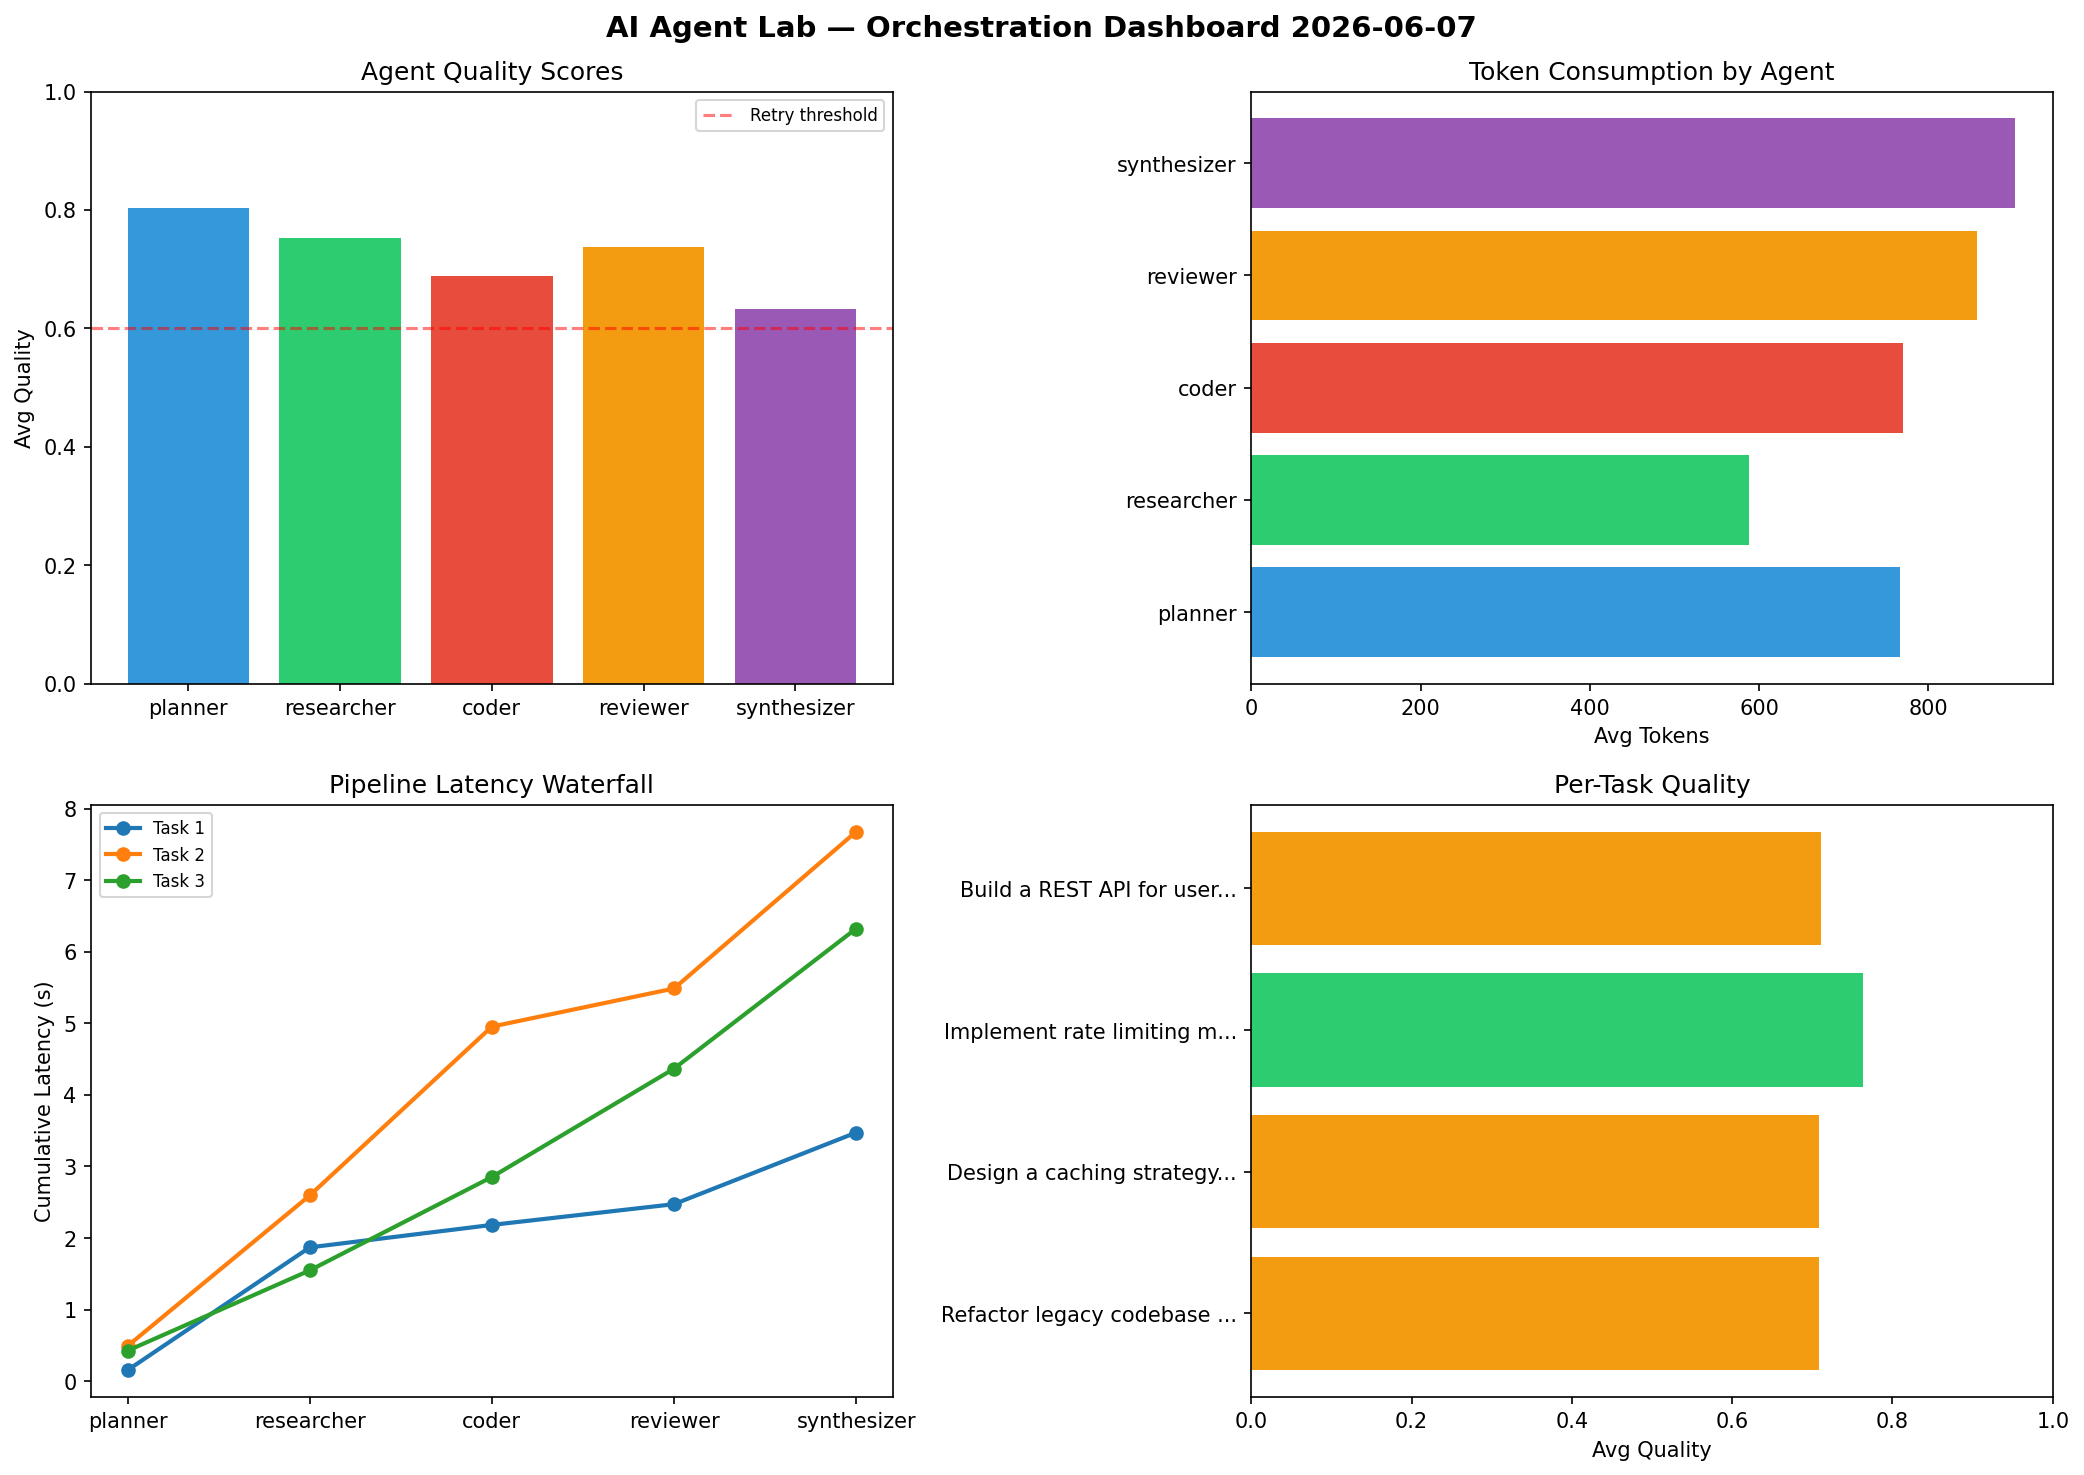
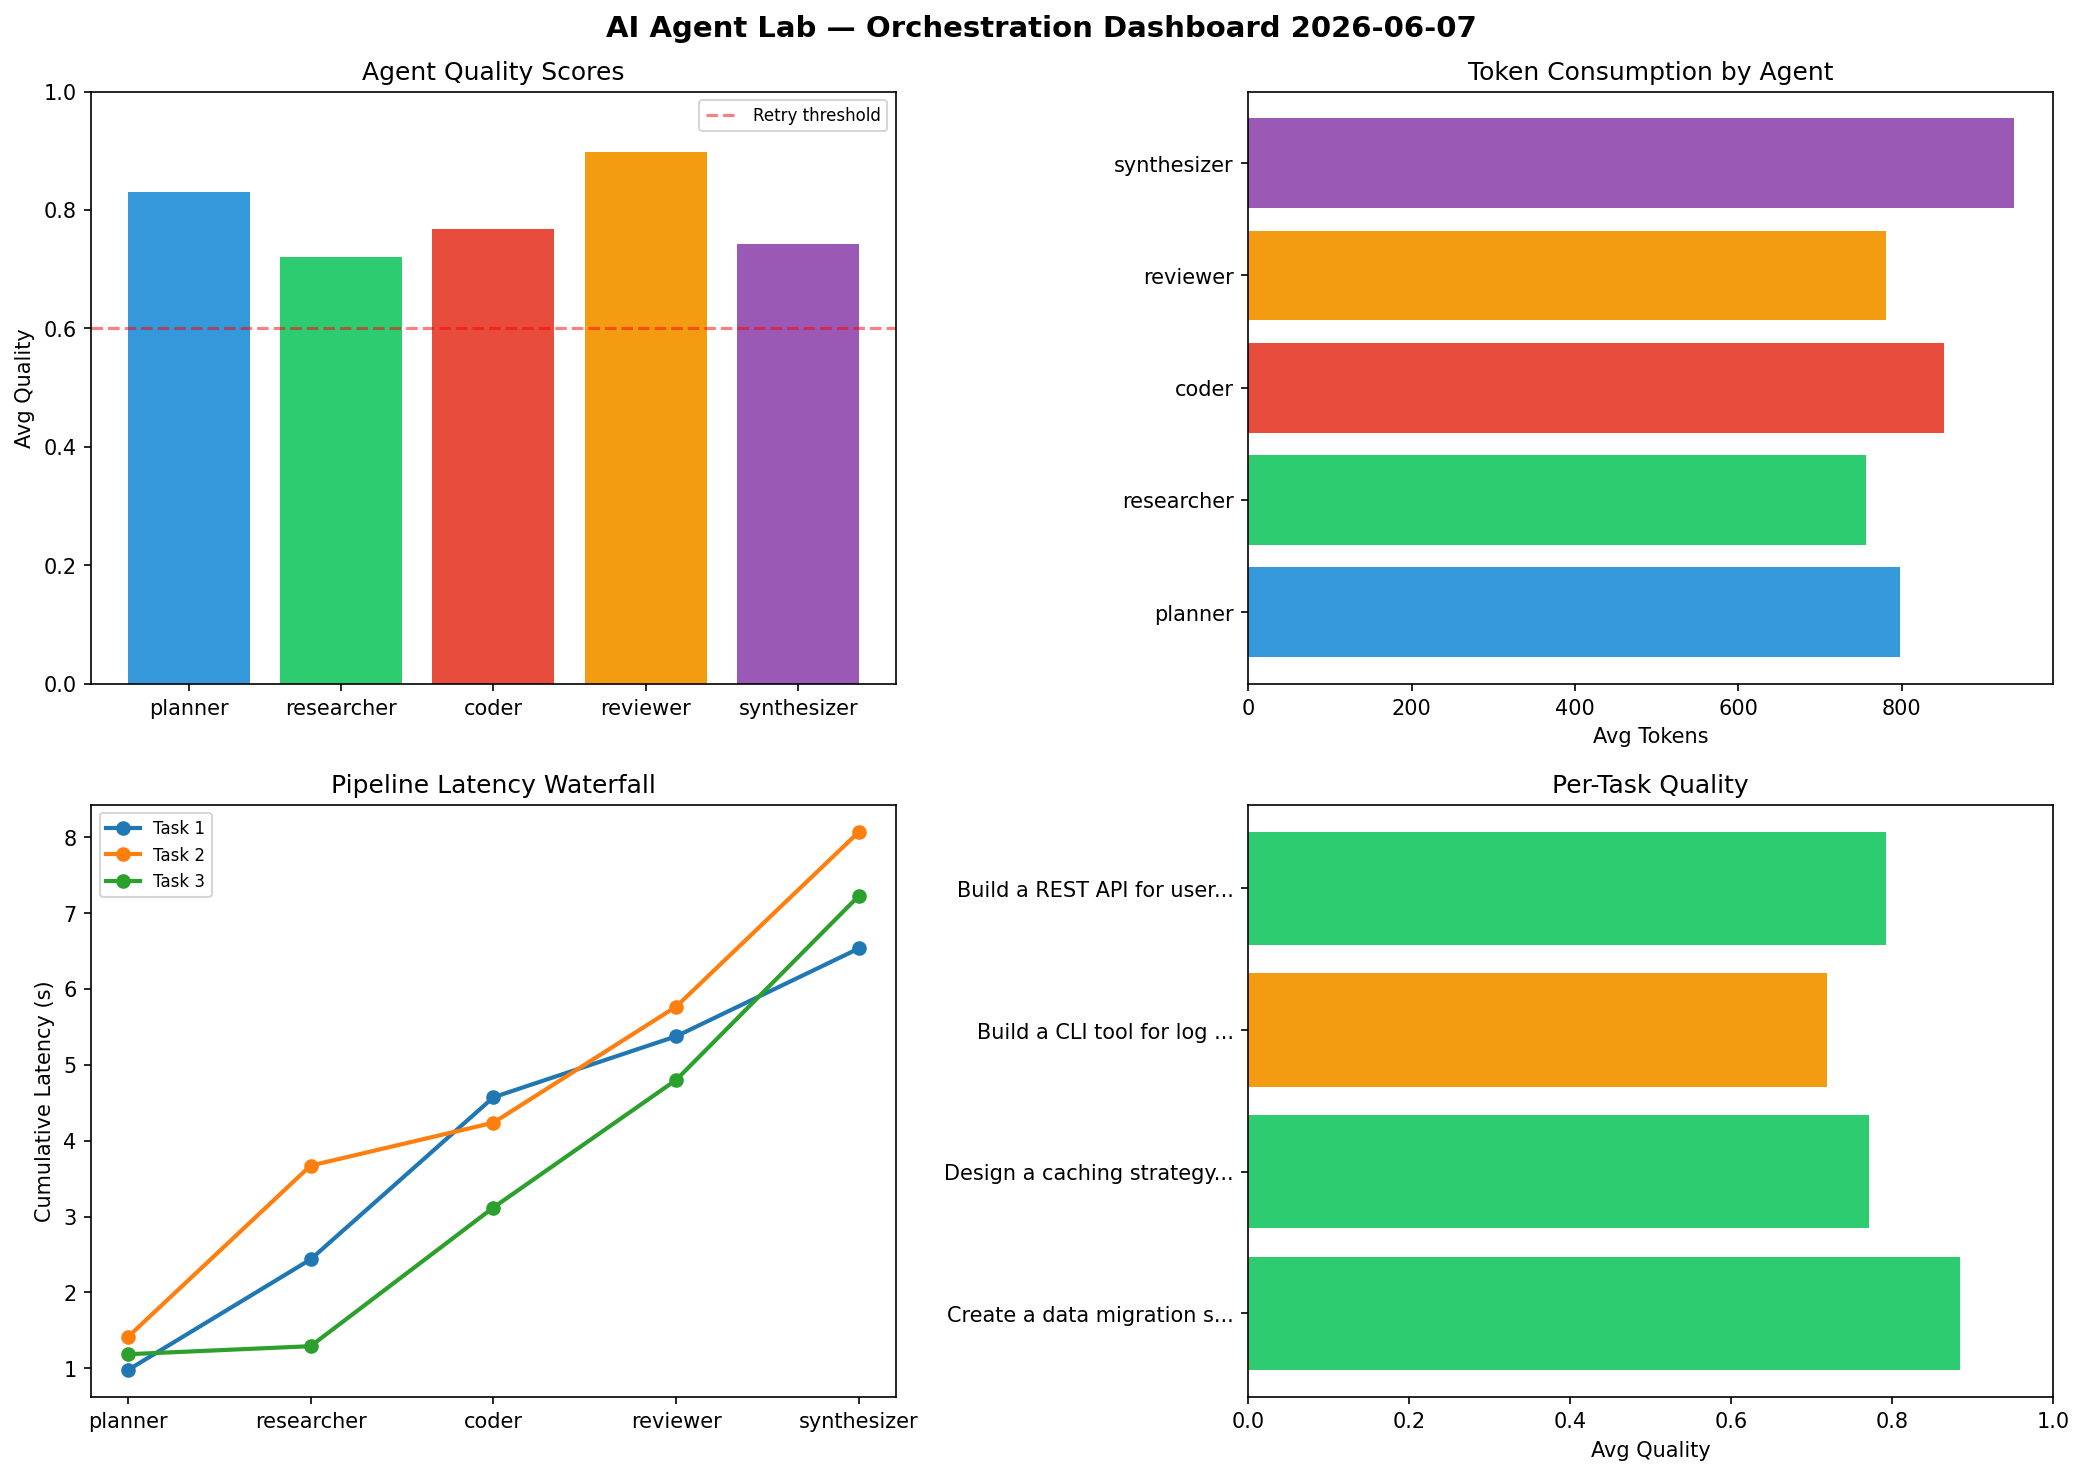
ai-agent-lab: orchestration run 2026-06-07T21:39

diff --git a/logs/2026-06-07.md b/logs/2026-06-07.md
@@ -1,6 +1,6 @@
 # AI Agent Lab — Orchestration Report 2026-06-07
 
-**Run ID:** `2e33023fc5` | **Tasks:** 4 | **Avg Quality:** 0.722
+**Run ID:** `e9fa5bb146` | **Tasks:** 4 | **Avg Quality:** 0.792
 
 ![Dashboard](2026-06-07_dashboard.png)
 
@@ -8,52 +8,52 @@
 
 | Metric | Value |
 |--------|-------|
-| avg_latency | 6.638 |
-| total_tokens | 15531 |
-| avg_quality | 0.722 |
+| avg_latency | 7.374 |
+| total_tokens | 16499 |
+| avg_quality | 0.792 |
 
 ## Delta vs Yesterday
 
 | Metric | Today | Yesterday | Change |
 |--------|-------|-----------|--------|
-| avg_latency | 6.638 | 8.457 | 📉 -21.5% |
-| total_tokens | 15531 | 13575 | 📈 14.4% |
-| avg_quality | 0.722 | 0.733 | 📉 -1.5% |
+| avg_latency | 7.374 | 8.457 | 📉 -12.8% |
+| total_tokens | 16499 | 13575 | 📈 21.5% |
+| avg_quality | 0.792 | 0.733 | 📈 8.0% |
 
 ## Pipeline Results
 
-### Refactor legacy codebase to use dependency injection
+### Create a data migration script for schema v2
 | Agent | Quality | Latency | Tokens | Status |
 |-------|---------|---------|--------|--------|
-| planner | 0.634 | 0.152s | 697 | success |
-| researcher | 0.797 | 1.717s | 584 | success |
-| coder | 0.725 | 0.314s | 1006 | success |
-| reviewer | 0.866 | 0.29s | 1084 | success |
-| synthesizer | 0.519 | 1.001s | 760 | needs_retry |
+| planner | 0.98 | 0.975s | 1148 | success |
+| researcher | 0.599 | 1.46s | 740 | needs_retry |
+| coder | 0.978 | 2.137s | 1071 | success |
+| reviewer | 0.953 | 0.804s | 1150 | success |
+| synthesizer | 0.915 | 1.159s | 1056 | success |
 
 ### Design a caching strategy for high-traffic endpoints
 | Agent | Quality | Latency | Tokens | Status |
 |-------|---------|---------|--------|--------|
-| planner | 0.727 | 0.49s | 853 | success |
-| researcher | 0.715 | 2.105s | 1035 | success |
-| coder | 0.784 | 2.361s | 380 | success |
-| reviewer | 0.513 | 0.533s | 1053 | needs_retry |
-| synthesizer | 0.803 | 2.193s | 797 | success |
+| planner | 0.983 | 1.41s | 394 | success |
+| researcher | 0.554 | 2.261s | 293 | needs_retry |
+| coder | 0.676 | 0.566s | 1144 | success |
+| reviewer | 0.862 | 1.531s | 651 | success |
+| synthesizer | 0.778 | 2.305s | 817 | success |
 
-### Implement rate limiting middleware
+### Build a CLI tool for log analysis
 | Agent | Quality | Latency | Tokens | Status |
 |-------|---------|---------|--------|--------|
-| planner | 0.97 | 0.424s | 626 | success |
-| researcher | 0.937 | 1.123s | 234 | success |
-| coder | 0.681 | 1.306s | 707 | success |
-| reviewer | 0.656 | 1.515s | 594 | success |
-| synthesizer | 0.573 | 1.959s | 1018 | needs_retry |
+| planner | 0.605 | 1.185s | 702 | success |
+| researcher | 0.746 | 0.106s | 1144 | success |
+| coder | 0.73 | 1.828s | 304 | success |
+| reviewer | 0.985 | 1.683s | 1070 | success |
+| synthesizer | 0.533 | 2.428s | 1050 | needs_retry |
 
 ### Build a REST API for user authentication
 | Agent | Quality | Latency | Tokens | Status |
 |-------|---------|---------|--------|--------|
-| planner | 0.879 | 2.124s | 889 | success |
-| researcher | 0.564 | 0.985s | 498 | needs_retry |
-| coder | 0.565 | 2.445s | 986 | needs_retry |
-| reviewer | 0.912 | 2.387s | 697 | success |
-| synthesizer | 0.634 | 1.126s | 1033 | success |
+| planner | 0.753 | 1.485s | 947 | success |
+| researcher | 0.986 | 1.48s | 848 | success |
+| coder | 0.688 | 2.337s | 889 | success |
+| reviewer | 0.794 | 1.071s | 251 | success |
+| synthesizer | 0.744 | 1.285s | 830 | success |
